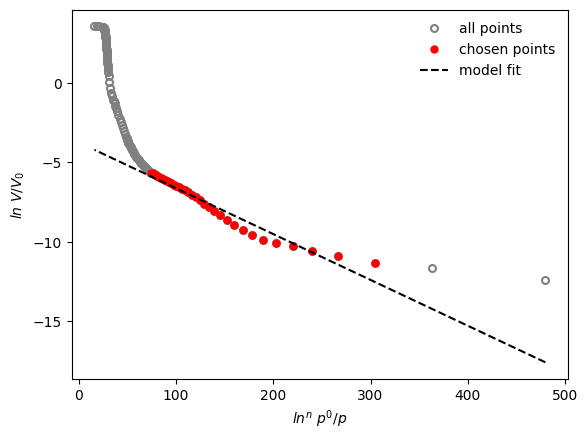
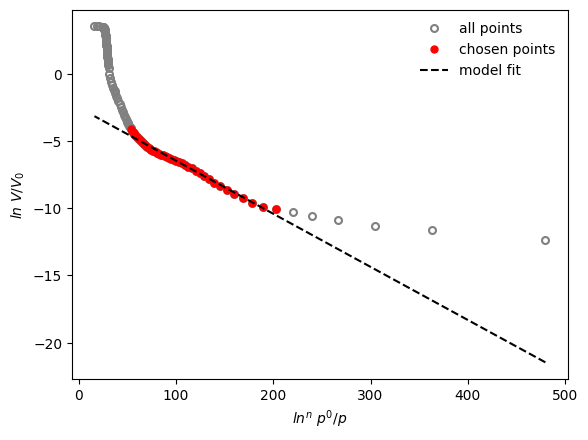
feat: manual input of plateau pressure and/or max loading

diff --git a/dubstandard/dubinin.py b/dubstandard/dubinin.py
@@ -57,18 +57,22 @@ class DubininResult:
         )
         self.pressure, self.loading = clean_isotherm(isotherm)
 
-        plateau_pressure = 0.9
+        plateau_pressure = kwargs.get('plateau_pressure', 0.95)
         if max(isotherm.pressure()) < plateau_pressure:
             plateau_pressure = max(isotherm.pressure())
-        self.plateau_loading = isotherm.loading_at(
-            pressure=plateau_pressure,
-            branch='ads',
-            pressure_mode='relative',
-            loading_unit='mol',
-            loading_basis='molar',
-            material_unit='g',
-            material_basis='mass',
-        )
+
+        if 'max_loading' in kwargs:
+            self.plateau_loading = kwargs['max_loading']
+        else:
+            self.plateau_loading = isotherm.loading_at(
+                pressure=plateau_pressure,
+                branch='ads',
+                pressure_mode='relative',
+                loading_unit='mol',
+                loading_basis='molar',
+                material_unit='g',
+                material_basis='mass',
+            )
         self.total_pore_volume = (
             self.plateau_loading * self.molar_mass /
             self.liquid_density
@@ -240,7 +244,7 @@ class DubininFilteredResults:
         filter_mask = filter_mask * dubinin_result.rouq_expand
 
         max_volume = kwargs.get('max_volume', dubinin_result.total_pore_volume)
-        filter_mask = filter_mask * (dubinin_result.pore_volume < max_volume)
+        filter_mask = filter_mask * (dubinin_result.pore_volume <= max_volume)
 
         self.filter_params = kwargs
 
@@ -401,7 +405,9 @@ if __name__ == "__main__":
     inPath = '../aif/'
     for file in glob.glob(f'{inPath}*.aif'):
         print(file)
-        isotherm = pgp.isotherm_from_aif(file)
+        with warnings.catch_warnings():
+            warnings.simplefilter('ignore')
+            isotherm = pgp.isotherm_from_aif(file)
         try:
             print(analyseDR(
                 isotherm, verbose=True,

diff --git a/dubstandard/__init__.py b/dubstandard/__init__.py
@@ -1,0 +1,1 @@
+import os, sys; sys.path.append(os.path.dirname(os.path.realpath(__file__)))
